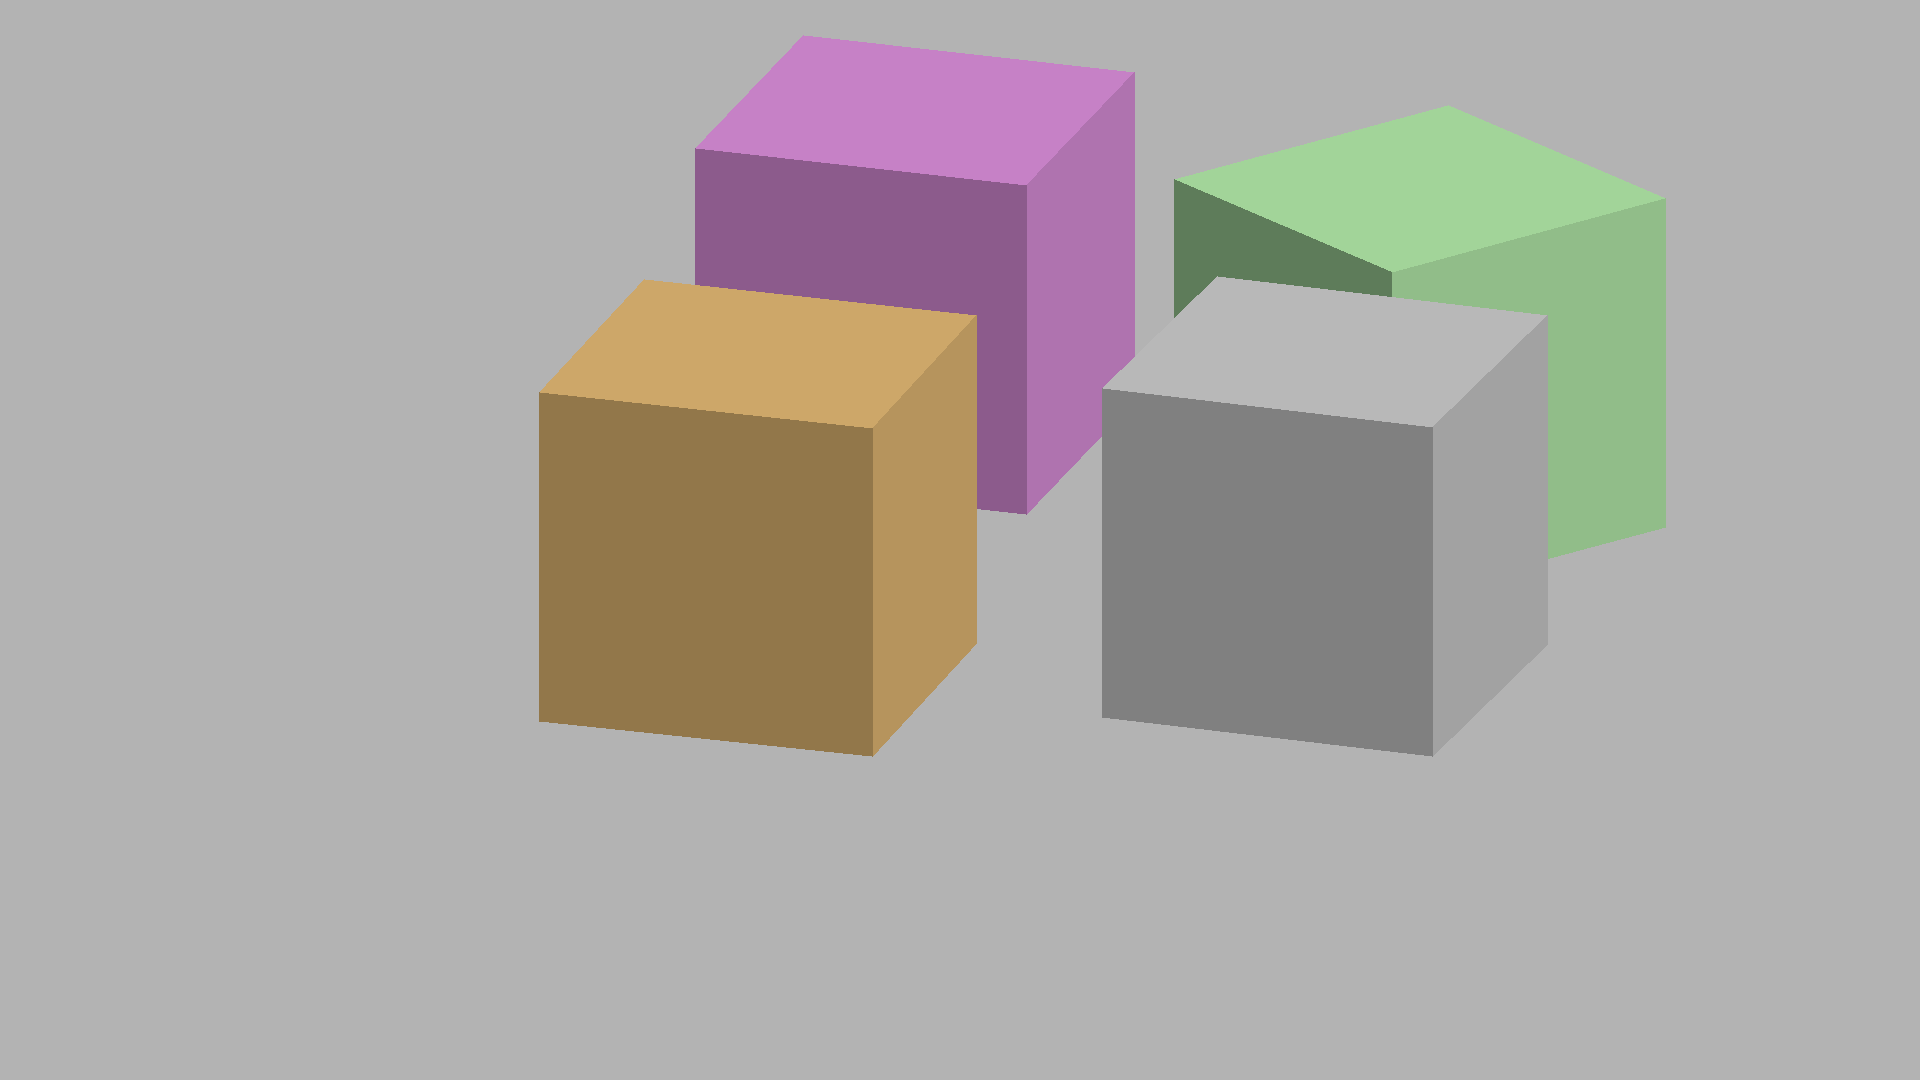
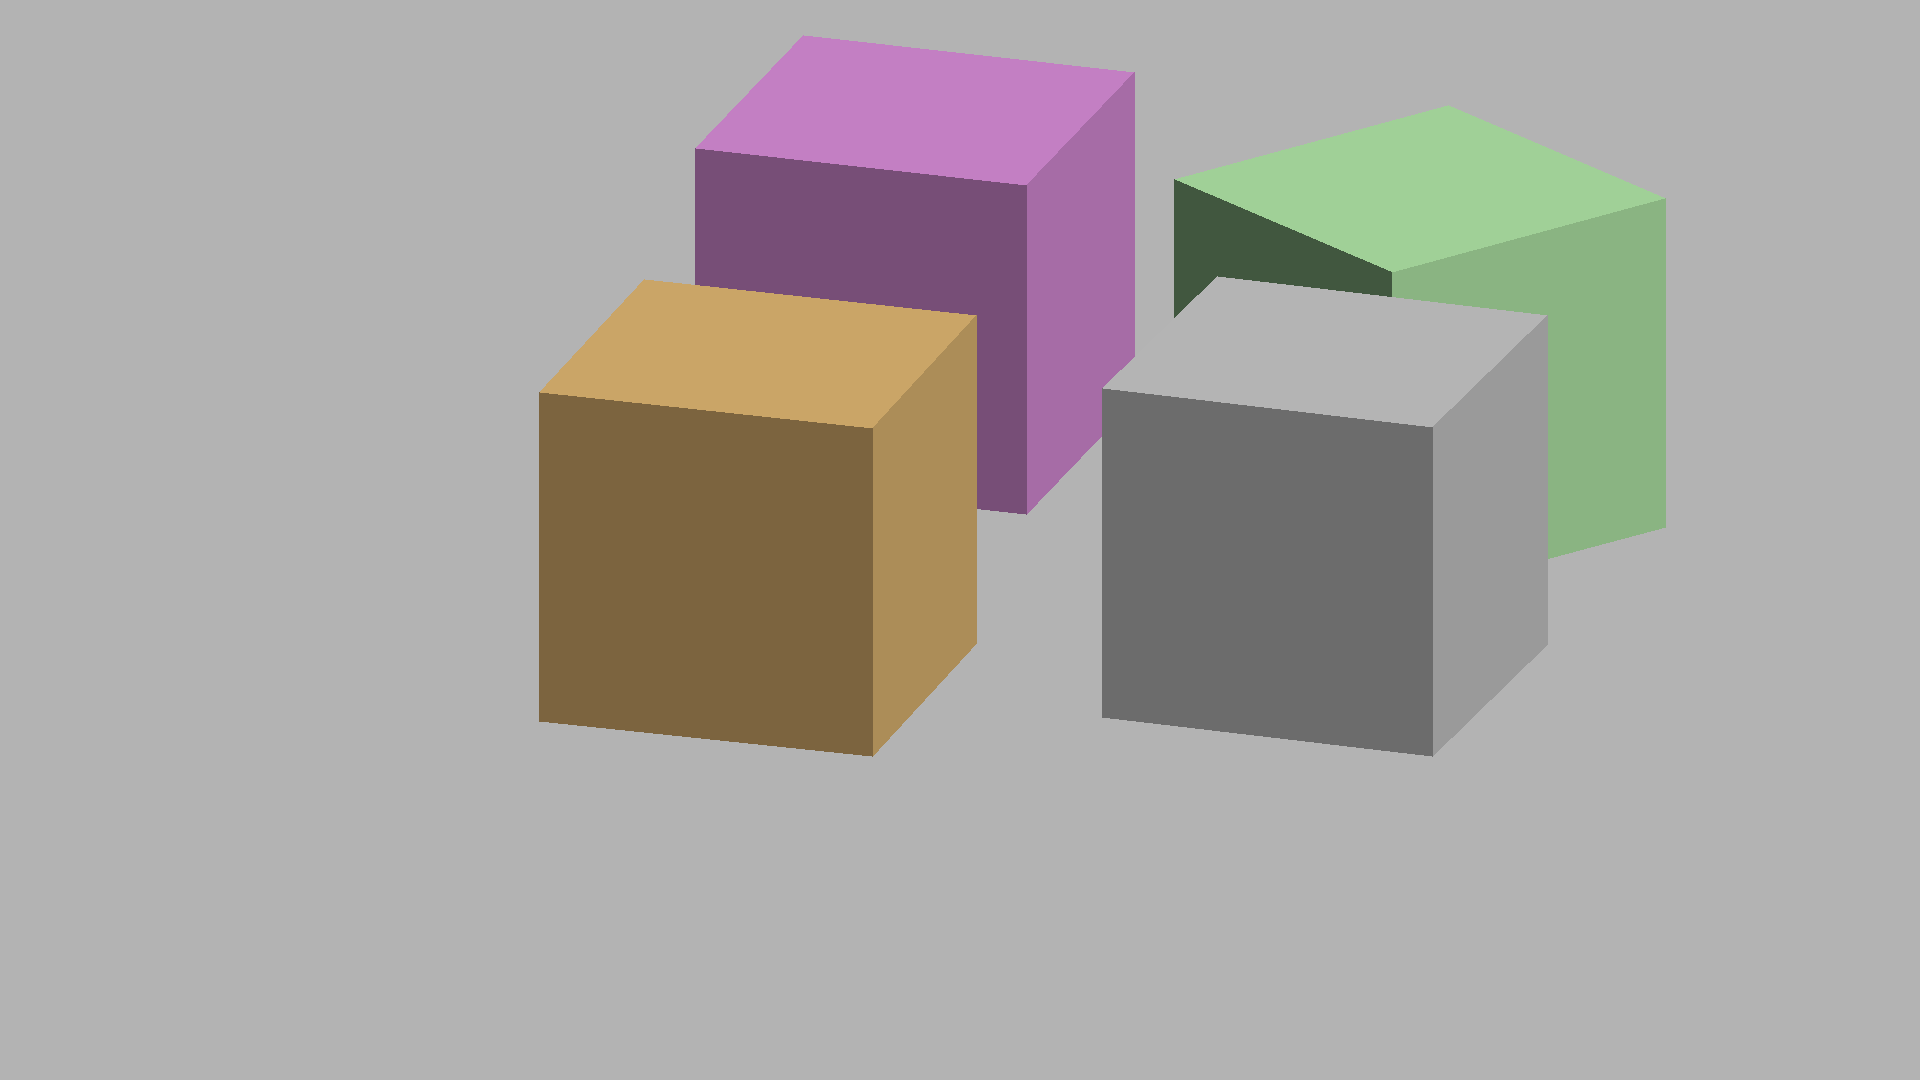
change some syntax

Changed region(s): [[0.5938, 0.1528, 0.75, 0.3056]]

diff --git a/final_project_cubes_noga_levy_tali_kalev.py b/final_project_cubes_noga_levy_tali_kalev.py
@@ -9,6 +9,8 @@ from math import *
 from PIL import Image, ImageDraw
 from collections import namedtuple
 
+import time # DELETE LATER
+start_time = time.time()
 # ====================MACROS====================
 IMAGE_HEIGHT = 1080
 IMAGE_WIDTH = 1920
@@ -113,17 +115,23 @@ def create_cube(cube_center, rotation_angle, image_pil, cube_colour):
     transformed_points_3d = np.zeros_like(POINTS)
     # Initialize an array to hold the transformed points in 2D representation
     projected_points = np.zeros((len(POINTS),2))
+    cube_rotation = get_rotation_mat_z(rotation_angle.z)
+    projection_matrix_camera = np.dot(PROJECTION_MATRIX, CAMERA_XYZ) # NOGA: maybe change the name later
 
     for i, point in enumerate(POINTS):
+        rotated3d = np.dot(cube_rotation, point)
         # Rotate object using rotation matrix with z axis angle
-        rotated3d = np.dot(get_rotation_mat_z(rotation_angle.z),point)
         # translate point relative to cube's position (center of cube)
         translated_point = rotated3d + np.array([cube_center.x, cube_center.y, cube_center.z])
         # save transformed 3d point
         transformed_points_3d[i] = translated_point
 
+        # == NOGA: this is the same as (PROJECTION_MATRIX x CAMERA_XYZ) x translated_point.
+        # projected2d = np.dot(PROJECTION_MATRIX, np.dot(CAMERA_XYZ, translated_point))
+        # == NOGA: so projection_matrix_camera = PROJECTION_MATRIX x CAMERA_XYZ. and clculated outside the loop
         # convert from 3d point to 2d point using camera angle's view point
-        projected2d = np.dot(PROJECTION_MATRIX, np.dot(CAMERA_XYZ, translated_point))
+        projected2d = np.dot(projection_matrix_camera, translated_point)
+
         # scale the x and y coordinates and place relative to center of image
         x = int(projected2d[0] * SCALE) + IMAGE_CENTER[0]
         y = int(projected2d[1] * SCALE) + IMAGE_CENTER[1]
@@ -155,7 +163,7 @@ def draw_face(image_pil, face_points_2d, cube_colour, face_normal_vector):
     '''
     # Find light source's relative angle on object and change colour accordingly
     light = np.dot(face_normal_vector, LIGHT_SOURCE)        
-    I = 0.15 + 0.85 * (max(0, light)) #noga: in "Tips" file it says to write 0.05 + 0.95 * max. but i changed it to 0.15 and 0.85
+    I = 0.15 + 0.85 * (max(0, light)) # NOGA: in "Tips" file it says to write 0.05 + 0.95 * max. but i changed it to 0.15 and 0.85 K?
     cube_colour = tuple(int(value * I) for value in cube_colour)
 
     # Draw face of cube using 2D points + calculated colour
@@ -209,22 +217,28 @@ if __name__ == "__main__":
 
     # Loop over order to draw cubes and draw them in image
     for cube in order_to_draw:
-        print(cube)
         create_cube(cube.position, cube.rotation, image_pil, cube.colour)
 
     # gamma correction:
     image_np = np.array(image_pil)
+
+    # NOGA: we can delete this: (but maybe later)
     # Divide each RGB value by 255
-    image_np = image_np / 255.0
-    # Take the square root of each normalized RGB value
-    image_np = np.sqrt(image_np)
-    # Multiply each square root value by 255 to scale back to the original range
-    image_np = image_np * 255
-    # Convert the result back to integers
-    image_pil = image_np.astype(np.uint8)
+    # image_np = image_np / 255.0
+    # # Take the square root of each normalized RGB value
+    # image_np = np.sqrt(image_np)
+    # # Multiply each square root value by 255 to scale back to the original range
+    # image_np = image_np * 255
+    # # Convert the result back to integers
+    # image_pil = image_np.astype(np.uint8)
+
+    # NOGA: same as the above
+    image_pil = (np.sqrt(image_np / 255.0) * 255).astype(np.uint8)
+
     # Convert the result back to PIL
     image_pil = Image.fromarray(image_pil, 'RGB')
 
     # Save and show image
     image_pil.save('image2.png')
+    print("--- %s seconds ---" % (time.time() - start_time))
     image_pil.show()
